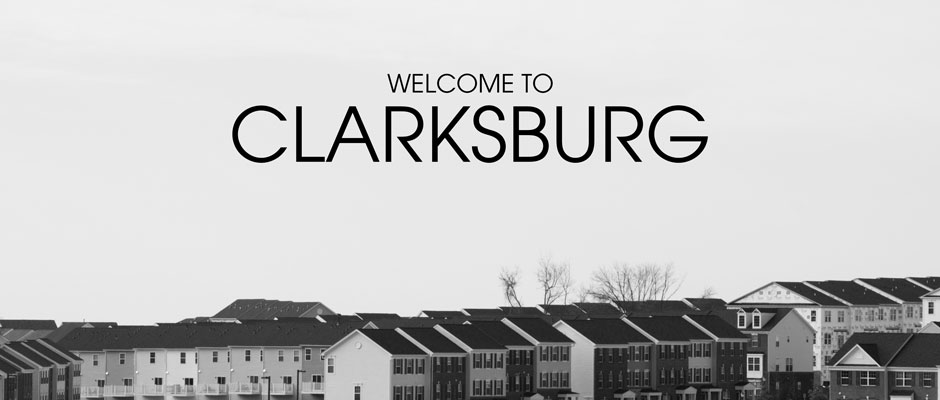
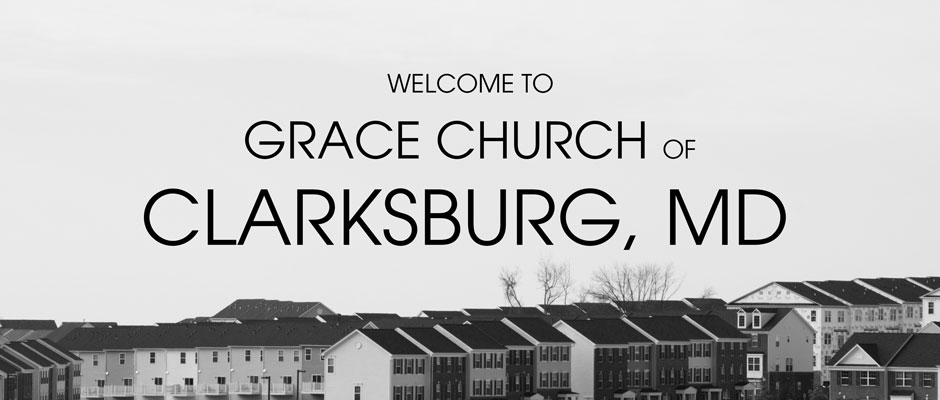
updated home page image, updated header color

Changed region(s): [[0.2468, 0.24, 0.7713, 0.42], [0.1543, 0.45, 0.6787, 0.63], [0.7096, 0.45, 0.833, 0.63]]

diff --git a/css/style.css b/css/style.css
@@ -78,7 +78,7 @@ h2 span {
 }
 
 h3 {
-	background: #404040;
+	background: #25a2d4;
 	display: inline-block;
 	padding: 4px 15px 6px;
 	font-size: 18px;
